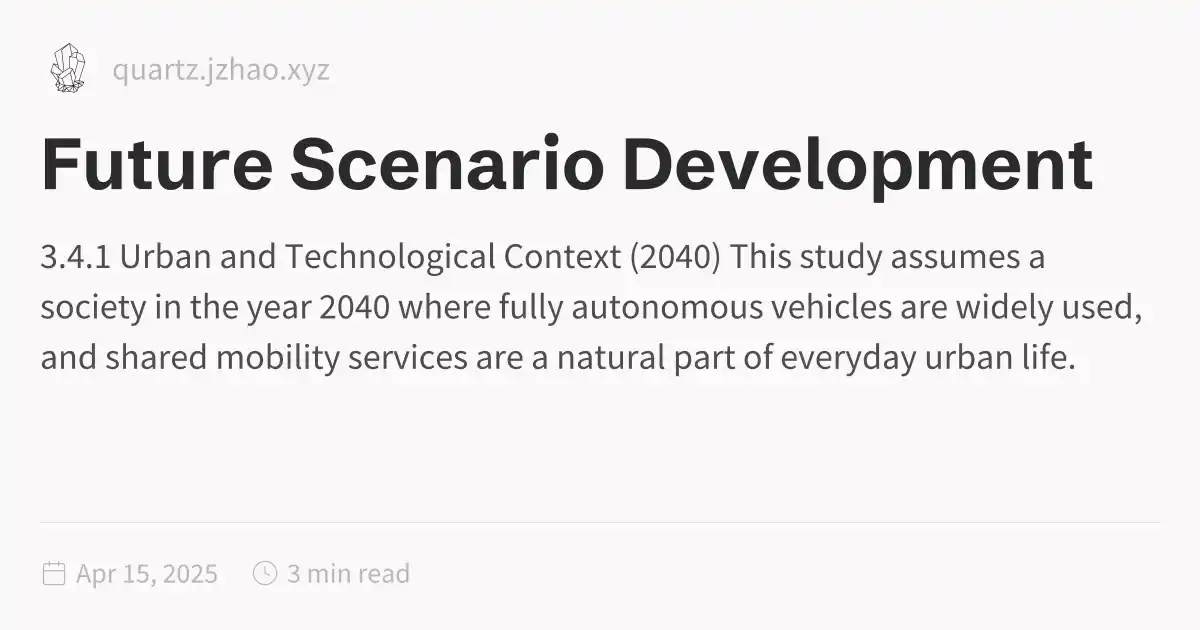
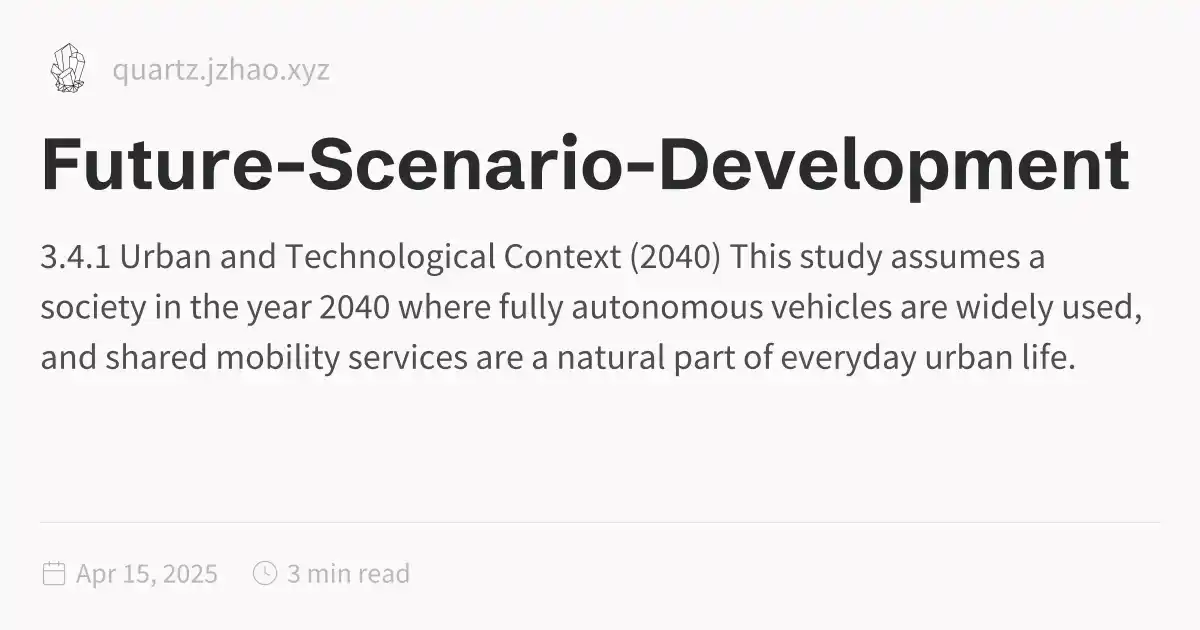
fix: broken links

Changed region(s): [[0.2158, 0.2111, 0.9558, 0.3317]]

diff --git a/Comparative-Analysis.html b/Comparative-Analysis.html
@@ -1,5 +1,5 @@
 <!DOCTYPE html>
-<html lang="en"><head><title>Comparative Analysis</title><meta charset="utf-8"/><link rel="preconnect" href="https://fonts.googleapis.com"/><link rel="preconnect" href="https://fonts.gstatic.com"/><link rel="stylesheet" href="https://fonts.googleapis.com/css2?family=Schibsted Grotesk:wght@400;700&amp;family=Source Sans Pro:ital,wght@0,400;0,600;1,400;1,600&amp;family=IBM Plex Mono:wght@400;600&amp;display=swap"/><link rel="preconnect" href="https://cdnjs.cloudflare.com" crossorigin="anonymous"/><meta name="viewport" content="width=device-width, initial-scale=1.0"/><meta name="og:site_name" content="Zoy.Jihyun Master Thesis"/><meta property="og:title" content="Comparative Analysis"/><meta property="og:type" content="website"/><meta name="twitter:card" content="summary_large_image"/><meta name="twitter:title" content="Comparative Analysis"/><meta name="twitter:description" content="“How can we provide personalized user experiences in shared mobility services using SDV and AI technologies in a fully autonomous (Level 5) future?” In the future, car ownership is expected to decrease, and autonomous shared mobility, where strangers share rides like public transportation will becom..."/><meta property="og:description" content="“How can we provide personalized user experiences in shared mobility services using SDV and AI technologies in a fully autonomous (Level 5) future?” In the future, car ownership is expected to decrease, and autonomous shared mobility, where strangers share rides like public transportation will becom..."/><meta property="og:image:alt" content="“How can we provide personalized user experiences in shared mobility services using SDV and AI technologies in a fully autonomous (Level 5) future?” In the future, car ownership is expected to decrease, and autonomous shared mobility, where strangers share rides like public transportation will becom..."/><meta property="twitter:domain" content="quartz.jzhao.xyz"/><meta property="og:url" content="https://quartz.jzhao.xyz/Comparative-Analysis"/><meta property="twitter:url" content="https://quartz.jzhao.xyz/Comparative-Analysis"/><link rel="icon" href="./static/icon.png"/><meta name="description" content="“How can we provide personalized user experiences in shared mobility services using SDV and AI technologies in a fully autonomous (Level 5) future?” In the future, car ownership is expected to decrease, and autonomous shared mobility, where strangers share rides like public transportation will becom..."/><meta name="generator" content="Quartz"/><link href="./index.css" rel="stylesheet" type="text/css" spa-preserve/><style>.expand-button {
+<html lang="en"><head><title>Comparative-Analysis</title><meta charset="utf-8"/><link rel="preconnect" href="https://fonts.googleapis.com"/><link rel="preconnect" href="https://fonts.gstatic.com"/><link rel="stylesheet" href="https://fonts.googleapis.com/css2?family=Schibsted Grotesk:wght@400;700&amp;family=Source Sans Pro:ital,wght@0,400;0,600;1,400;1,600&amp;family=IBM Plex Mono:wght@400;600&amp;display=swap"/><link rel="preconnect" href="https://cdnjs.cloudflare.com" crossorigin="anonymous"/><meta name="viewport" content="width=device-width, initial-scale=1.0"/><meta name="og:site_name" content="Zoy.Jihyun Master Thesis"/><meta property="og:title" content="Comparative-Analysis"/><meta property="og:type" content="website"/><meta name="twitter:card" content="summary_large_image"/><meta name="twitter:title" content="Comparative-Analysis"/><meta name="twitter:description" content="“How can we provide personalized user experiences in shared mobility services using SDV and AI technologies in a fully autonomous (Level 5) future?” In the future, car ownership is expected to decrease, and autonomous shared mobility, where strangers share rides like public transportation will becom..."/><meta property="og:description" content="“How can we provide personalized user experiences in shared mobility services using SDV and AI technologies in a fully autonomous (Level 5) future?” In the future, car ownership is expected to decrease, and autonomous shared mobility, where strangers share rides like public transportation will becom..."/><meta property="og:image:alt" content="“How can we provide personalized user experiences in shared mobility services using SDV and AI technologies in a fully autonomous (Level 5) future?” In the future, car ownership is expected to decrease, and autonomous shared mobility, where strangers share rides like public transportation will becom..."/><meta property="twitter:domain" content="quartz.jzhao.xyz"/><meta property="og:url" content="https://quartz.jzhao.xyz/Comparative-Analysis"/><meta property="twitter:url" content="https://quartz.jzhao.xyz/Comparative-Analysis"/><link rel="icon" href="./static/icon.png"/><meta name="description" content="“How can we provide personalized user experiences in shared mobility services using SDV and AI technologies in a fully autonomous (Level 5) future?” In the future, car ownership is expected to decrease, and autonomous shared mobility, where strangers share rides like public transportation will becom..."/><meta name="generator" content="Quartz"/><link href="./index.css" rel="stylesheet" type="text/css" spa-preserve/><style>.expand-button {
   position: absolute;
   display: flex;
   float: right;
@@ -116,7 +116,7 @@ pre:hover > .expand-button {
   padding: 0 12px;
   font-size: 14px;
 }
[2 lines of base64/hex data omitted]
 <ol>
 <li>In the future, car ownership is expected to decrease, and autonomous shared mobility, where strangers share rides like public transportation will become more common.</li>
 <li>If you own a car, it’s completely yours, so you can personalize it to your taste, like decorating the interior or listening to your favorite music.</li>
@@ -209,6 +209,6 @@ Q. “For each column (product), highlight the text of one cell in red that you 
                 C46.042,11.405,47.451,12,49,12c3.309,0,6-2.691,6-6S52.309,0,49,0z M11,9c0-1.103,0.897-2,2-2s2,0.897,2,2s-0.897,2-2,2
                 S11,10.103,11,9z M6,51c-2.206,0-4-1.794-4-4s1.794-4,4-4s4,1.794,4,4S8.206,51,6,51z M33,49c0,2.206-1.794,4-4,4s-4-1.794-4-4
                 s1.794-4,4-4S33,46.794,33,49z M29,31c-3.309,0-6-2.691-6-6s2.691-6,6-6s6,2.691,6,6S32.309,31,29,31z M47,41c0,1.103-0.897,2-2,2
-                s-2-0.897-2-2s0.897-2,2-2S47,39.897,47,41z M49,10c-2.206,0-4-1.794-4-4s1.794-4,4-4s4,1.794,4,4S51.206,10,49,10z"></path></svg></button></div><div class="global-graph-outer"><div class="global-graph-container" data-cfg="{&quot;drag&quot;:true,&quot;zoom&quot;:true,&quot;depth&quot;:-1,&quot;scale&quot;:0.9,&quot;repelForce&quot;:0.5,&quot;centerForce&quot;:0.2,&quot;linkDistance&quot;:30,&quot;fontSize&quot;:0.6,&quot;opacityScale&quot;:1,&quot;showTags&quot;:true,&quot;removeTags&quot;:[],&quot;focusOnHover&quot;:true,&quot;enableRadial&quot;:true}"></div></div></div></div><footer class><p>Created with <a href="https://quartz.jzhao.xyz/">Quartz v4.5.0</a> © 2025</p><ul><li><a href="https://github.com/jackyzha0/quartz">GitHub</a></li><li><a href="https://discord.gg/cRFFHYye7t">Discord Community</a></li></ul></footer></div></div></body><script type="application/javascript">function o(){let t=this.parentElement;t.classList.toggle("is-collapsed");let e=t.classList.contains("is-collapsed")?this.scrollHeight:t.scrollHeight;t.style.maxHeight=e+"px";let c=t,l=t.parentElement;for(;l;){if(!l.classList.contains("callout"))return;let i=l.classList.contains("is-collapsed")?l.scrollHeight:l.scrollHeight+c.scrollHeight;l.style.maxHeight=i+"px",c=l,l=l.parentElement}}function n(){let t=document.getElementsByClassName("callout is-collapsible");for(let s of t){let e=s.firstElementChild;if(!e)continue;e.addEventListener("click",o),window.addCleanup(()=>e.removeEventListener("click",o));let l=s.classList.contains("is-collapsed")?e.scrollHeight:s.scrollHeight;s.style.maxHeight=l+"px"}}document.addEventListener("nav",n);
+                s-2-0.897-2-2s0.897-2,2-2S47,39.897,47,41z M49,10c-2.206,0-4-1.794-4-4s1.794-4,4-4s4,1.794,4,4S51.206,10,49,10z"></path></svg></button></div><div class="global-graph-outer"><div class="global-graph-container" data-cfg="{&quot;drag&quot;:true,&quot;zoom&quot;:true,&quot;depth&quot;:-1,&quot;scale&quot;:0.9,&quot;repelForce&quot;:0.5,&quot;centerForce&quot;:0.2,&quot;linkDistance&quot;:30,&quot;fontSize&quot;:0.6,&quot;opacityScale&quot;:1,&quot;showTags&quot;:true,&quot;removeTags&quot;:[],&quot;focusOnHover&quot;:true,&quot;enableRadial&quot;:true}"></div></div></div><div class="backlinks"><h3>Backlinks</h3><ul id="list-2" class="overflow"><li><a href="./" class="internal">Welcome</a></li><li class="overflow-end"></li></ul></div></div><footer class><p>Created with <a href="https://quartz.jzhao.xyz/">Quartz v4.5.0</a> © 2025</p><ul><li><a href="https://github.com/jackyzha0/quartz">GitHub</a></li><li><a href="https://discord.gg/cRFFHYye7t">Discord Community</a></li></ul></footer></div></div></body><script type="application/javascript">function o(){let t=this.parentElement;t.classList.toggle("is-collapsed");let e=t.classList.contains("is-collapsed")?this.scrollHeight:t.scrollHeight;t.style.maxHeight=e+"px";let c=t,l=t.parentElement;for(;l;){if(!l.classList.contains("callout"))return;let i=l.classList.contains("is-collapsed")?l.scrollHeight:l.scrollHeight+c.scrollHeight;l.style.maxHeight=i+"px",c=l,l=l.parentElement}}function n(){let t=document.getElementsByClassName("callout is-collapsible");for(let s of t){let e=s.firstElementChild;if(!e)continue;e.addEventListener("click",o),window.addCleanup(()=>e.removeEventListener("click",o));let l=s.classList.contains("is-collapsed")?e.scrollHeight:s.scrollHeight;s.style.maxHeight=l+"px"}}document.addEventListener("nav",n);
 </script><script type="module">function f(i,e){if(!i)return;function r(o){o.target===this&&(o.preventDefault(),o.stopPropagation(),e())}function t(o){o.key.startsWith("Esc")&&(o.preventDefault(),e())}i?.addEventListener("click",r),window.addCleanup(()=>i?.removeEventListener("click",r)),document.addEventListener("keydown",t),window.addCleanup(()=>document.removeEventListener("keydown",t))}function y(i){for(;i.firstChild;)i.removeChild(i.firstChild)}var h=class{constructor(e,r){this.container=e;this.content=r;this.setupEventListeners(),this.setupNavigationControls(),this.resetTransform()}isDragging=!1;startPan={x:0,y:0};currentPan={x:0,y:0};scale=1;MIN_SCALE=.5;MAX_SCALE=3;cleanups=[];setupEventListeners(){let e=this.onMouseDown.bind(this),r=this.onMouseMove.bind(this),t=this.onMouseUp.bind(this),o=this.resetTransform.bind(this);this.container.addEventListener("mousedown",e),document.addEventListener("mousemove",r),document.addEventListener("mouseup",t),window.addEventListener("resize",o),this.cleanups.push(()=>this.container.removeEventListener("mousedown",e),()=>document.removeEventListener("mousemove",r),()=>document.removeEventListener("mouseup",t),()=>window.removeEventListener("resize",o))}cleanup(){for(let e of this.cleanups)e()}setupNavigationControls(){let e=document.createElement("div");e.className="mermaid-controls";let r=this.createButton("+",()=>this.zoom(.1)),t=this.createButton("-",()=>this.zoom(-.1)),o=this.createButton("Reset",()=>this.resetTransform());e.appendChild(t),e.appendChild(o),e.appendChild(r),this.container.appendChild(e)}createButton(e,r){let t=document.createElement("button");return t.textContent=e,t.className="mermaid-control-button",t.addEventListener("click",r),window.addCleanup(()=>t.removeEventListener("click",r)),t}onMouseDown(e){e.button===0&&(this.isDragging=!0,this.startPan={x:e.clientX-this.currentPan.x,y:e.clientY-this.currentPan.y},this.container.style.cursor="grabbing")}onMouseMove(e){this.isDragging&&(e.preventDefault(),this.currentPan={x:e.clientX-this.startPan.x,y:e.clientY-this.startPan.y},this.updateTransform())}onMouseUp(){this.isDragging=!1,this.container.style.cursor="grab"}zoom(e){let r=Math.min(Math.max(this.scale+e,this.MIN_SCALE),this.MAX_SCALE),t=this.content.getBoundingClientRect(),o=t.width/2,n=t.height/2,c=r-this.scale;this.currentPan.x-=o*c,this.currentPan.y-=n*c,this.scale=r,this.updateTransform()}updateTransform(){this.content.style.transform=`translate(${this.currentPan.x}px, ${this.currentPan.y}px) scale(${this.scale})`}resetTransform(){this.scale=1;let e=this.content.querySelector("svg");this.currentPan={x:e.getBoundingClientRect().width/2,y:e.getBoundingClientRect().height/2},this.updateTransform()}},C=["--secondary","--tertiary","--gray","--light","--lightgray","--highlight","--dark","--darkgray","--codeFont"],E;document.addEventListener("nav",async()=>{let e=document.querySelector(".center").querySelectorAll("code.mermaid");if(e.length===0)return;E||=await import("https://cdnjs.cloudflare.com/ajax/libs/mermaid/11.4.0/mermaid.esm.min.mjs");let r=E.default,t=new WeakMap;for(let n of e)t.set(n,n.innerText);async function o(){for(let s of e){s.removeAttribute("data-processed");let a=t.get(s);a&&(s.innerHTML=a)}let n=C.reduce((s,a)=>(s[a]=window.getComputedStyle(document.documentElement).getPropertyValue(a),s),{}),c=document.documentElement.getAttribute("saved-theme")==="dark";r.initialize({startOnLoad:!1,securityLevel:"loose",theme:c?"dark":"base",themeVariables:{fontFamily:n["--codeFont"],primaryColor:n["--light"],primaryTextColor:n["--darkgray"],primaryBorderColor:n["--tertiary"],lineColor:n["--darkgray"],secondaryColor:n["--secondary"],tertiaryColor:n["--tertiary"],clusterBkg:n["--light"],edgeLabelBackground:n["--highlight"]}}),await r.run({nodes:e})}await o(),document.addEventListener("themechange",o),window.addCleanup(()=>document.removeEventListener("themechange",o));for(let n=0;n<e.length;n++){let v=function(){let g=l.querySelector("#mermaid-space"),m=l.querySelector(".mermaid-content");if(!m)return;y(m);let w=c.querySelector("svg").cloneNode(!0);m.appendChild(w),l.classList.add("active"),g.style.cursor="grab",u=new h(g,m)},M=function(){l.classList.remove("active"),u?.cleanup(),u=null},c=e[n],s=c.parentElement,a=s.querySelector(".clipboard-button"),d=s.querySelector(".expand-button"),p=window.getComputedStyle(a),L=a.offsetWidth+parseFloat(p.marginLeft||"0")+parseFloat(p.marginRight||"0");d.style.right=`calc(${L}px + 0.3rem)`,s.prepend(d);let l=s.querySelector("#mermaid-container");if(!l)return;let u=null;d.addEventListener("click",v),f(l,M),window.addCleanup(()=>{u?.cleanup(),d.removeEventListener("click",v)})}});
 </script><script src="https://cdn.jsdelivr.net/npm/katex@0.16.11/dist/contrib/copy-tex.min.js" type="application/javascript"></script><script src="./postscript.js" type="module"></script></html>

diff --git a/Future-Scenario-Development.html b/Future-Scenario-Development.html
@@ -1,5 +1,5 @@
 <!DOCTYPE html>
-<html lang="en"><head><title>Future Scenario Development</title><meta charset="utf-8"/><link rel="preconnect" href="https://fonts.googleapis.com"/><link rel="preconnect" href="https://fonts.gstatic.com"/><link rel="stylesheet" href="https://fonts.googleapis.com/css2?family=Schibsted Grotesk:wght@400;700&amp;family=Source Sans Pro:ital,wght@0,400;0,600;1,400;1,600&amp;family=IBM Plex Mono:wght@400;600&amp;display=swap"/><link rel="preconnect" href="https://cdnjs.cloudflare.com" crossorigin="anonymous"/><meta name="viewport" content="width=device-width, initial-scale=1.0"/><meta name="og:site_name" content="Zoy.Jihyun Master Thesis"/><meta property="og:title" content="Future Scenario Development"/><meta property="og:type" content="website"/><meta name="twitter:card" content="summary_large_image"/><meta name="twitter:title" content="Future Scenario Development"/><meta name="twitter:description" content="3.4.1 Urban and Technological Context (2040) This study assumes a society in the year 2040 where fully autonomous vehicles are widely used, and shared mobility services are a natural part of everyday urban life."/><meta property="og:description" content="3.4.1 Urban and Technological Context (2040) This study assumes a society in the year 2040 where fully autonomous vehicles are widely used, and shared mobility services are a natural part of everyday urban life."/><meta property="og:image:alt" content="3.4.1 Urban and Technological Context (2040) This study assumes a society in the year 2040 where fully autonomous vehicles are widely used, and shared mobility services are a natural part of everyday urban life."/><meta property="twitter:domain" content="quartz.jzhao.xyz"/><meta property="og:url" content="https://quartz.jzhao.xyz/Future-Scenario-Development"/><meta property="twitter:url" content="https://quartz.jzhao.xyz/Future-Scenario-Development"/><link rel="icon" href="./static/icon.png"/><meta name="description" content="3.4.1 Urban and Technological Context (2040) This study assumes a society in the year 2040 where fully autonomous vehicles are widely used, and shared mobility services are a natural part of everyday urban life."/><meta name="generator" content="Quartz"/><link href="./index.css" rel="stylesheet" type="text/css" spa-preserve/><style>.expand-button {
+<html lang="en"><head><title>Future-Scenario-Development</title><meta charset="utf-8"/><link rel="preconnect" href="https://fonts.googleapis.com"/><link rel="preconnect" href="https://fonts.gstatic.com"/><link rel="stylesheet" href="https://fonts.googleapis.com/css2?family=Schibsted Grotesk:wght@400;700&amp;family=Source Sans Pro:ital,wght@0,400;0,600;1,400;1,600&amp;family=IBM Plex Mono:wght@400;600&amp;display=swap"/><link rel="preconnect" href="https://cdnjs.cloudflare.com" crossorigin="anonymous"/><meta name="viewport" content="width=device-width, initial-scale=1.0"/><meta name="og:site_name" content="Zoy.Jihyun Master Thesis"/><meta property="og:title" content="Future-Scenario-Development"/><meta property="og:type" content="website"/><meta name="twitter:card" content="summary_large_image"/><meta name="twitter:title" content="Future-Scenario-Development"/><meta name="twitter:description" content="3.4.1 Urban and Technological Context (2040) This study assumes a society in the year 2040 where fully autonomous vehicles are widely used, and shared mobility services are a natural part of everyday urban life."/><meta property="og:description" content="3.4.1 Urban and Technological Context (2040) This study assumes a society in the year 2040 where fully autonomous vehicles are widely used, and shared mobility services are a natural part of everyday urban life."/><meta property="og:image:alt" content="3.4.1 Urban and Technological Context (2040) This study assumes a society in the year 2040 where fully autonomous vehicles are widely used, and shared mobility services are a natural part of everyday urban life."/><meta property="twitter:domain" content="quartz.jzhao.xyz"/><meta property="og:url" content="https://quartz.jzhao.xyz/Future-Scenario-Development"/><meta property="twitter:url" content="https://quartz.jzhao.xyz/Future-Scenario-Development"/><link rel="icon" href="./static/icon.png"/><meta name="description" content="3.4.1 Urban and Technological Context (2040) This study assumes a society in the year 2040 where fully autonomous vehicles are widely used, and shared mobility services are a natural part of everyday urban life."/><meta name="generator" content="Quartz"/><link href="./index.css" rel="stylesheet" type="text/css" spa-preserve/><style>.expand-button {
   position: absolute;
   display: flex;
   float: right;
@@ -116,7 +116,7 @@ pre:hover > .expand-button {
   padding: 0 12px;
   font-size: 14px;
 }
[2 lines of base64/hex data omitted]
 <p>This study assumes a society in the year 2040 where fully autonomous vehicles are widely used, and shared mobility services are a natural part of everyday urban life.</p>
 <p>This future scenario is based on expert predictions and industry reports. According to McKinsey &amp; Company (2021), while Level 5 autonomy could become technically achievable in the early 2030s, broader adoption may take longer due to infrastructure, legal regulations, and societal acceptance. Similarly, the Boston Consulting Group (2021) expects that fully autonomous vehicles will become commercially viable between 2035 and 2040, with earlier adoption likely to happen in urban areas.</p>
 <h3 id="342-user-persona">3.4.2 User Persona<a role="anchor" aria-hidden="true" tabindex="-1" data-no-popover="true" href="#342-user-persona" class="internal"><svg width="18" height="18" viewBox="0 0 24 24" fill="none" stroke="currentColor" stroke-width="2" stroke-linecap="round" stroke-linejoin="round"><path d="M10 13a5 5 0 0 0 7.54.54l3-3a5 5 0 0 0-7.07-7.07l-1.72 1.71"></path><path d="M14 11a5 5 0 0 0-7.54-.54l-3 3a5 5 0 0 0 7.07 7.07l1.71-1.71"></path></svg></a></h3>
@@ -140,6 +140,6 @@ Singapore was selected as the persona’s setting for 2040 due to its active pro
                 C46.042,11.405,47.451,12,49,12c3.309,0,6-2.691,6-6S52.309,0,49,0z M11,9c0-1.103,0.897-2,2-2s2,0.897,2,2s-0.897,2-2,2
                 S11,10.103,11,9z M6,51c-2.206,0-4-1.794-4-4s1.794-4,4-4s4,1.794,4,4S8.206,51,6,51z M33,49c0,2.206-1.794,4-4,4s-4-1.794-4-4
                 s1.794-4,4-4S33,46.794,33,49z M29,31c-3.309,0-6-2.691-6-6s2.691-6,6-6s6,2.691,6,6S32.309,31,29,31z M47,41c0,1.103-0.897,2-2,2
-                s-2-0.897-2-2s0.897-2,2-2S47,39.897,47,41z M49,10c-2.206,0-4-1.794-4-4s1.794-4,4-4s4,1.794,4,4S51.206,10,49,10z"></path></svg></button></div><div class="global-graph-outer"><div class="global-graph-container" data-cfg="{&quot;drag&quot;:true,&quot;zoom&quot;:true,&quot;depth&quot;:-1,&quot;scale&quot;:0.9,&quot;repelForce&quot;:0.5,&quot;centerForce&quot;:0.2,&quot;linkDistance&quot;:30,&quot;fontSize&quot;:0.6,&quot;opacityScale&quot;:1,&quot;showTags&quot;:true,&quot;removeTags&quot;:[],&quot;focusOnHover&quot;:true,&quot;enableRadial&quot;:true}"></div></div></div><div class="toc desktop-only"><button type="button" class="toc-header" aria-controls="toc-content" aria-expanded="true"><h3>Table of Contents</h3><svg xmlns="http://www.w3.org/2000/svg" width="24" height="24" viewBox="0 0 24 24" fill="none" stroke="currentColor" stroke-width="2" stroke-linecap="round" stroke-linejoin="round" class="fold"><polyline points="6 9 12 15 18 9"></polyline></svg></button><ul class="toc-content overflow" id="list-1"><li class="depth-0"><a href="#341-urban-and-technological-context-2040" data-for="341-urban-and-technological-context-2040">3.4.1 Urban and Technological Context (2040)</a></li><li class="depth-0"><a href="#342-user-persona" data-for="342-user-persona">3.4.2 User Persona</a></li><li class="depth-0"><a href="#343-future-mobility-scenario" data-for="343-future-mobility-scenario">3.4.3 Future Mobility Scenario</a></li><li class="overflow-end"></li></ul></div></div><footer class><p>Created with <a href="https://quartz.jzhao.xyz/">Quartz v4.5.0</a> © 2025</p><ul><li><a href="https://github.com/jackyzha0/quartz">GitHub</a></li><li><a href="https://discord.gg/cRFFHYye7t">Discord Community</a></li></ul></footer></div></div></body><script type="application/javascript">function o(){let t=this.parentElement;t.classList.toggle("is-collapsed");let e=t.classList.contains("is-collapsed")?this.scrollHeight:t.scrollHeight;t.style.maxHeight=e+"px";let c=t,l=t.parentElement;for(;l;){if(!l.classList.contains("callout"))return;let i=l.classList.contains("is-collapsed")?l.scrollHeight:l.scrollHeight+c.scrollHeight;l.style.maxHeight=i+"px",c=l,l=l.parentElement}}function n(){let t=document.getElementsByClassName("callout is-collapsible");for(let s of t){let e=s.firstElementChild;if(!e)continue;e.addEventListener("click",o),window.addCleanup(()=>e.removeEventListener("click",o));let l=s.classList.contains("is-collapsed")?e.scrollHeight:s.scrollHeight;s.style.maxHeight=l+"px"}}document.addEventListener("nav",n);
+                s-2-0.897-2-2s0.897-2,2-2S47,39.897,47,41z M49,10c-2.206,0-4-1.794-4-4s1.794-4,4-4s4,1.794,4,4S51.206,10,49,10z"></path></svg></button></div><div class="global-graph-outer"><div class="global-graph-container" data-cfg="{&quot;drag&quot;:true,&quot;zoom&quot;:true,&quot;depth&quot;:-1,&quot;scale&quot;:0.9,&quot;repelForce&quot;:0.5,&quot;centerForce&quot;:0.2,&quot;linkDistance&quot;:30,&quot;fontSize&quot;:0.6,&quot;opacityScale&quot;:1,&quot;showTags&quot;:true,&quot;removeTags&quot;:[],&quot;focusOnHover&quot;:true,&quot;enableRadial&quot;:true}"></div></div></div><div class="toc desktop-only"><button type="button" class="toc-header" aria-controls="toc-content" aria-expanded="true"><h3>Table of Contents</h3><svg xmlns="http://www.w3.org/2000/svg" width="24" height="24" viewBox="0 0 24 24" fill="none" stroke="currentColor" stroke-width="2" stroke-linecap="round" stroke-linejoin="round" class="fold"><polyline points="6 9 12 15 18 9"></polyline></svg></button><ul class="toc-content overflow" id="list-1"><li class="depth-0"><a href="#341-urban-and-technological-context-2040" data-for="341-urban-and-technological-context-2040">3.4.1 Urban and Technological Context (2040)</a></li><li class="depth-0"><a href="#342-user-persona" data-for="342-user-persona">3.4.2 User Persona</a></li><li class="depth-0"><a href="#343-future-mobility-scenario" data-for="343-future-mobility-scenario">3.4.3 Future Mobility Scenario</a></li><li class="overflow-end"></li></ul></div><div class="backlinks"><h3>Backlinks</h3><ul id="list-2" class="overflow"><li><a href="./" class="internal">Welcome</a></li><li class="overflow-end"></li></ul></div></div><footer class><p>Created with <a href="https://quartz.jzhao.xyz/">Quartz v4.5.0</a> © 2025</p><ul><li><a href="https://github.com/jackyzha0/quartz">GitHub</a></li><li><a href="https://discord.gg/cRFFHYye7t">Discord Community</a></li></ul></footer></div></div></body><script type="application/javascript">function o(){let t=this.parentElement;t.classList.toggle("is-collapsed");let e=t.classList.contains("is-collapsed")?this.scrollHeight:t.scrollHeight;t.style.maxHeight=e+"px";let c=t,l=t.parentElement;for(;l;){if(!l.classList.contains("callout"))return;let i=l.classList.contains("is-collapsed")?l.scrollHeight:l.scrollHeight+c.scrollHeight;l.style.maxHeight=i+"px",c=l,l=l.parentElement}}function n(){let t=document.getElementsByClassName("callout is-collapsible");for(let s of t){let e=s.firstElementChild;if(!e)continue;e.addEventListener("click",o),window.addCleanup(()=>e.removeEventListener("click",o));let l=s.classList.contains("is-collapsed")?e.scrollHeight:s.scrollHeight;s.style.maxHeight=l+"px"}}document.addEventListener("nav",n);
 </script><script type="module">function f(i,e){if(!i)return;function r(o){o.target===this&&(o.preventDefault(),o.stopPropagation(),e())}function t(o){o.key.startsWith("Esc")&&(o.preventDefault(),e())}i?.addEventListener("click",r),window.addCleanup(()=>i?.removeEventListener("click",r)),document.addEventListener("keydown",t),window.addCleanup(()=>document.removeEventListener("keydown",t))}function y(i){for(;i.firstChild;)i.removeChild(i.firstChild)}var h=class{constructor(e,r){this.container=e;this.content=r;this.setupEventListeners(),this.setupNavigationControls(),this.resetTransform()}isDragging=!1;startPan={x:0,y:0};currentPan={x:0,y:0};scale=1;MIN_SCALE=.5;MAX_SCALE=3;cleanups=[];setupEventListeners(){let e=this.onMouseDown.bind(this),r=this.onMouseMove.bind(this),t=this.onMouseUp.bind(this),o=this.resetTransform.bind(this);this.container.addEventListener("mousedown",e),document.addEventListener("mousemove",r),document.addEventListener("mouseup",t),window.addEventListener("resize",o),this.cleanups.push(()=>this.container.removeEventListener("mousedown",e),()=>document.removeEventListener("mousemove",r),()=>document.removeEventListener("mouseup",t),()=>window.removeEventListener("resize",o))}cleanup(){for(let e of this.cleanups)e()}setupNavigationControls(){let e=document.createElement("div");e.className="mermaid-controls";let r=this.createButton("+",()=>this.zoom(.1)),t=this.createButton("-",()=>this.zoom(-.1)),o=this.createButton("Reset",()=>this.resetTransform());e.appendChild(t),e.appendChild(o),e.appendChild(r),this.container.appendChild(e)}createButton(e,r){let t=document.createElement("button");return t.textContent=e,t.className="mermaid-control-button",t.addEventListener("click",r),window.addCleanup(()=>t.removeEventListener("click",r)),t}onMouseDown(e){e.button===0&&(this.isDragging=!0,this.startPan={x:e.clientX-this.currentPan.x,y:e.clientY-this.currentPan.y},this.container.style.cursor="grabbing")}onMouseMove(e){this.isDragging&&(e.preventDefault(),this.currentPan={x:e.clientX-this.startPan.x,y:e.clientY-this.startPan.y},this.updateTransform())}onMouseUp(){this.isDragging=!1,this.container.style.cursor="grab"}zoom(e){let r=Math.min(Math.max(this.scale+e,this.MIN_SCALE),this.MAX_SCALE),t=this.content.getBoundingClientRect(),o=t.width/2,n=t.height/2,c=r-this.scale;this.currentPan.x-=o*c,this.currentPan.y-=n*c,this.scale=r,this.updateTransform()}updateTransform(){this.content.style.transform=`translate(${this.currentPan.x}px, ${this.currentPan.y}px) scale(${this.scale})`}resetTransform(){this.scale=1;let e=this.content.querySelector("svg");this.currentPan={x:e.getBoundingClientRect().width/2,y:e.getBoundingClientRect().height/2},this.updateTransform()}},C=["--secondary","--tertiary","--gray","--light","--lightgray","--highlight","--dark","--darkgray","--codeFont"],E;document.addEventListener("nav",async()=>{let e=document.querySelector(".center").querySelectorAll("code.mermaid");if(e.length===0)return;E||=await import("https://cdnjs.cloudflare.com/ajax/libs/mermaid/11.4.0/mermaid.esm.min.mjs");let r=E.default,t=new WeakMap;for(let n of e)t.set(n,n.innerText);async function o(){for(let s of e){s.removeAttribute("data-processed");let a=t.get(s);a&&(s.innerHTML=a)}let n=C.reduce((s,a)=>(s[a]=window.getComputedStyle(document.documentElement).getPropertyValue(a),s),{}),c=document.documentElement.getAttribute("saved-theme")==="dark";r.initialize({startOnLoad:!1,securityLevel:"loose",theme:c?"dark":"base",themeVariables:{fontFamily:n["--codeFont"],primaryColor:n["--light"],primaryTextColor:n["--darkgray"],primaryBorderColor:n["--tertiary"],lineColor:n["--darkgray"],secondaryColor:n["--secondary"],tertiaryColor:n["--tertiary"],clusterBkg:n["--light"],edgeLabelBackground:n["--highlight"]}}),await r.run({nodes:e})}await o(),document.addEventListener("themechange",o),window.addCleanup(()=>document.removeEventListener("themechange",o));for(let n=0;n<e.length;n++){let v=function(){let g=l.querySelector("#mermaid-space"),m=l.querySelector(".mermaid-content");if(!m)return;y(m);let w=c.querySelector("svg").cloneNode(!0);m.appendChild(w),l.classList.add("active"),g.style.cursor="grab",u=new h(g,m)},M=function(){l.classList.remove("active"),u?.cleanup(),u=null},c=e[n],s=c.parentElement,a=s.querySelector(".clipboard-button"),d=s.querySelector(".expand-button"),p=window.getComputedStyle(a),L=a.offsetWidth+parseFloat(p.marginLeft||"0")+parseFloat(p.marginRight||"0");d.style.right=`calc(${L}px + 0.3rem)`,s.prepend(d);let l=s.querySelector("#mermaid-container");if(!l)return;let u=null;d.addEventListener("click",v),f(l,M),window.addCleanup(()=>{u?.cleanup(),d.removeEventListener("click",v)})}});
 </script><script src="https://cdn.jsdelivr.net/npm/katex@0.16.11/dist/contrib/copy-tex.min.js" type="application/javascript"></script><script src="./postscript.js" type="module"></script></html>

diff --git a/index.html b/index.html
@@ -119,8 +119,8 @@ pre:hover > .expand-button {
[1 lines of base64/hex data omitted]
 <p>Here I share selected design notes, UX research, and mobility-related ideas.</p>
 <ul>
-<li><a href="./WIP/Comparative-Analysis" class="internal alias" data-slug="WIP/Comparative-Analysis">Comparative Analysis</a></li>
-<li><a href="./WIP/Future-Scenario-Development" class="internal alias" data-slug="WIP/Future-Scenario-Development">Future Scenario Development</a></li>
+<li><a href="./Comparative-Analysis" class="internal alias" data-slug="Comparative-Analysis">Comparative Analysis</a></li>
+<li><a href="./Future-Scenario-Development" class="internal alias" data-slug="Future-Scenario-Development">Future Scenario Development</a></li>
 </ul></article><hr/><div class="page-footer"></div></div><div class="right sidebar"><div class="graph"><h3>Graph View</h3><div class="graph-outer"><div class="graph-container" data-cfg="{&quot;drag&quot;:true,&quot;zoom&quot;:true,&quot;depth&quot;:1,&quot;scale&quot;:1.1,&quot;repelForce&quot;:0.5,&quot;centerForce&quot;:0.3,&quot;linkDistance&quot;:30,&quot;fontSize&quot;:0.6,&quot;opacityScale&quot;:1,&quot;showTags&quot;:true,&quot;removeTags&quot;:[],&quot;focusOnHover&quot;:false,&quot;enableRadial&quot;:false}"></div><button class="global-graph-icon" aria-label="Global Graph"><svg version="1.1" xmlns="http://www.w3.org/2000/svg" xmlns:xlink="http://www.w3.org/1999/xlink" x="0px" y="0px" viewBox="0 0 55 55" fill="currentColor" xml:space="preserve"><path d="M49,0c-3.309,0-6,2.691-6,6c0,1.035,0.263,2.009,0.726,2.86l-9.829,9.829C32.542,17.634,30.846,17,29,17
                 s-3.542,0.634-4.898,1.688l-7.669-7.669C16.785,10.424,17,9.74,17,9c0-2.206-1.794-4-4-4S9,6.794,9,9s1.794,4,4,4
                 c0.74,0,1.424-0.215,2.019-0.567l7.669,7.669C21.634,21.458,21,23.154,21,25s0.634,3.542,1.688,4.897L10.024,42.562